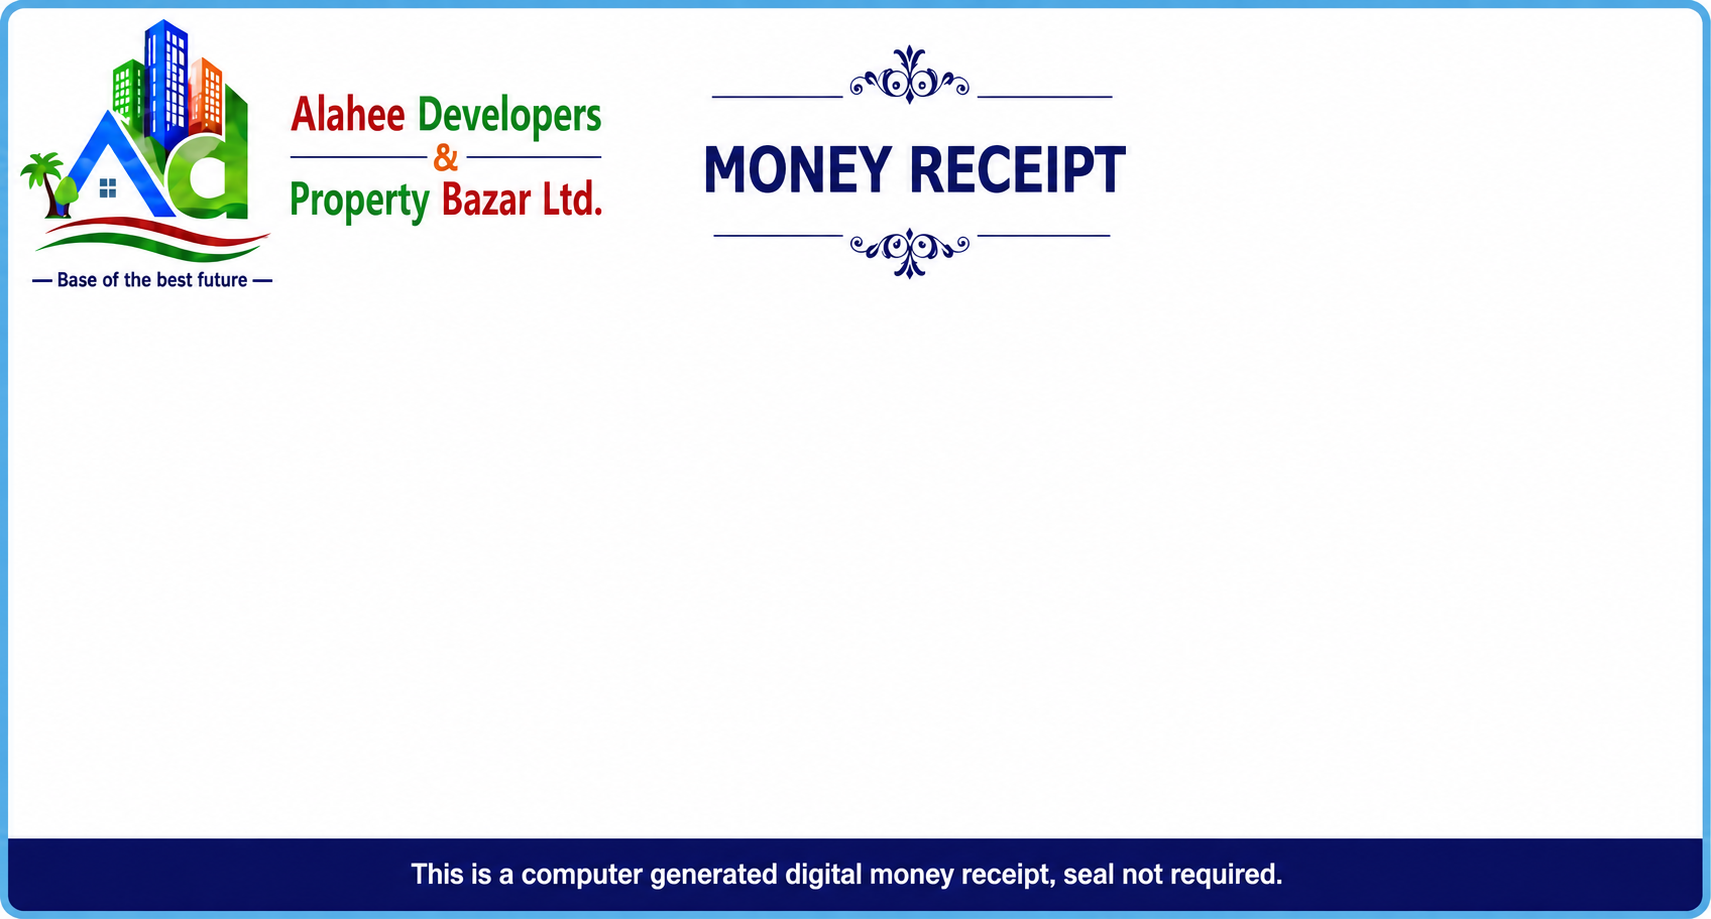
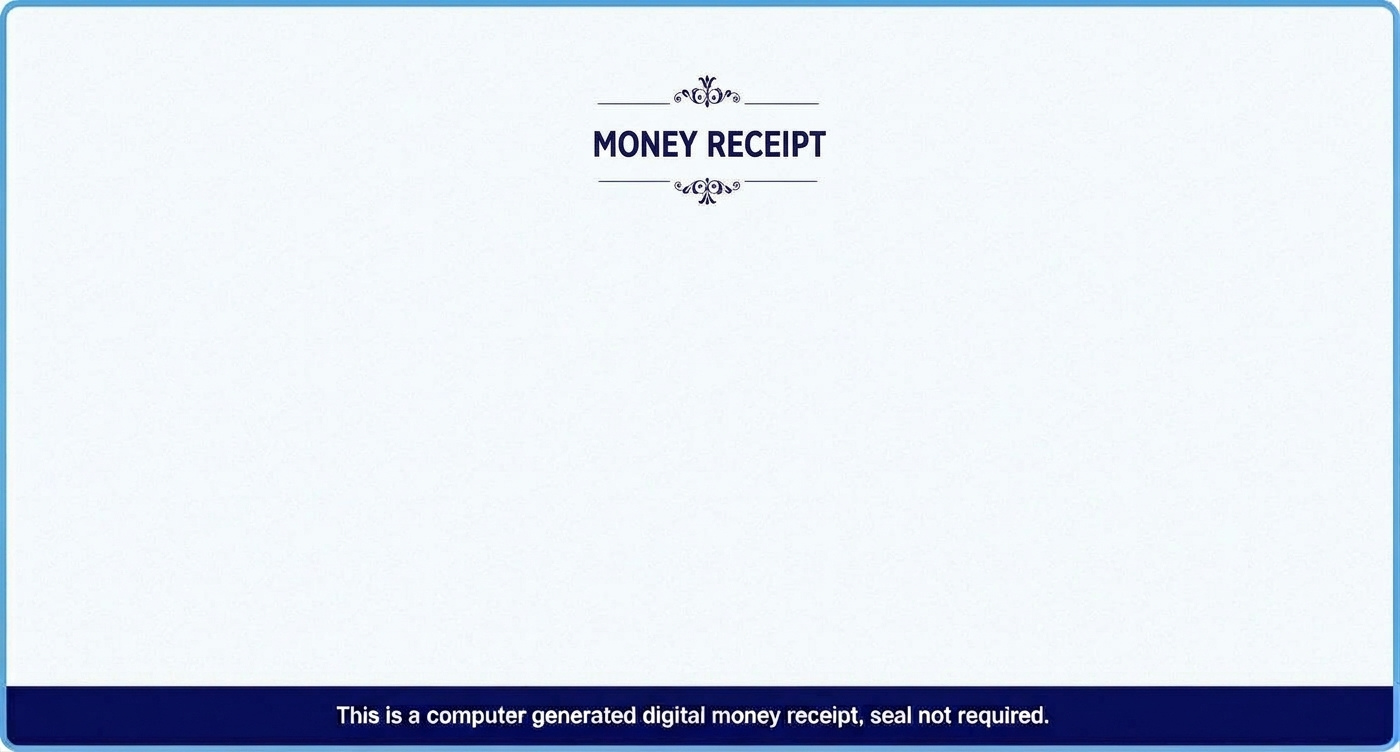
Create initial server

diff --git a/src/app/purchase/commissions.ts b/src/app/purchase/commissions.ts
@@ -302,7 +302,7 @@ export const distributeCommissions = async (purchaseId: string) => {
             (genConfig.rate / 100) * installmentPortion
           );
           if (commission > 0) {
-            const note = `Gen ${gen} team management — ${portionLabel} (${
+            const note = `Gen ${gen} Team management commission — ${portionLabel} (${
               genConfig.rate
             }% of ৳${installmentPortion.toLocaleString()}) — Buyer: ${buyerName} (@${buyerUsername}), Share: ${shareTitle} x${qty}`;
             await savePendingCommission(
@@ -383,7 +383,7 @@ export const distributeInstallmentPaymentCommission = async (
 
       const commission = round2((genConfig.rate / 100) * installmentAmount);
       if (commission > 0) {
-        const note = `Gen ${gen} Royal team management — ${instLabel} (${
+        const note = `Gen ${gen} Royal team management commission — ${instLabel} (${
           genConfig.rate
         }% of ৳${installmentAmount.toLocaleString()}) — Buyer: ${buyerName} (@${buyerUsername}), Share: ${shareTitle}`;
         // এই কমিশনও Pending হিসাবে সংরক্ষণ করা হচ্ছে
